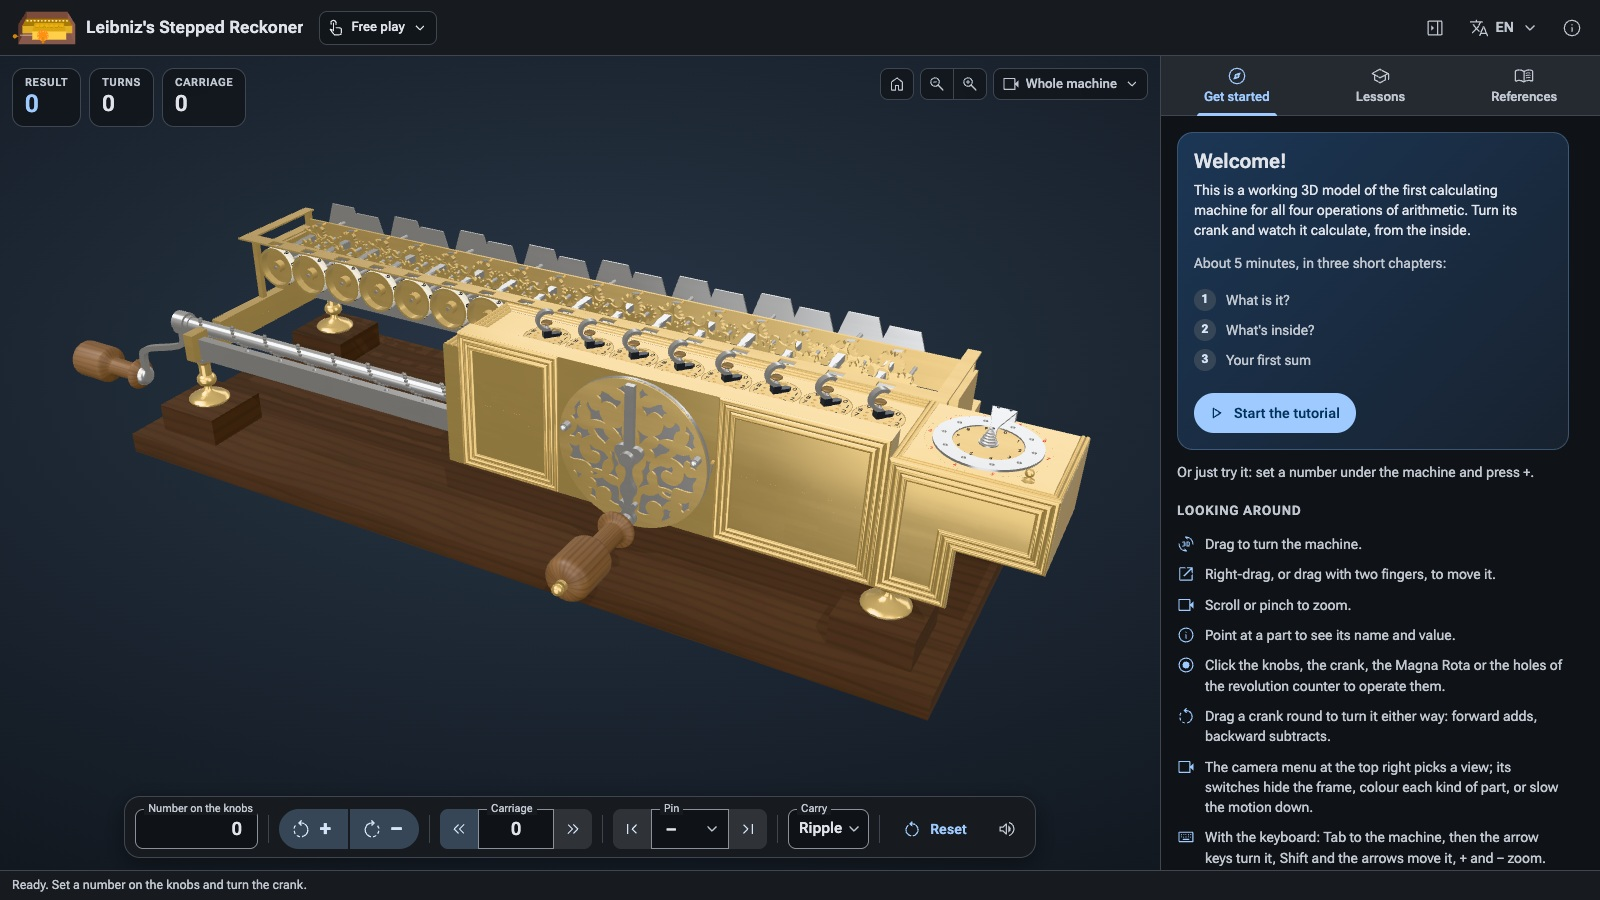
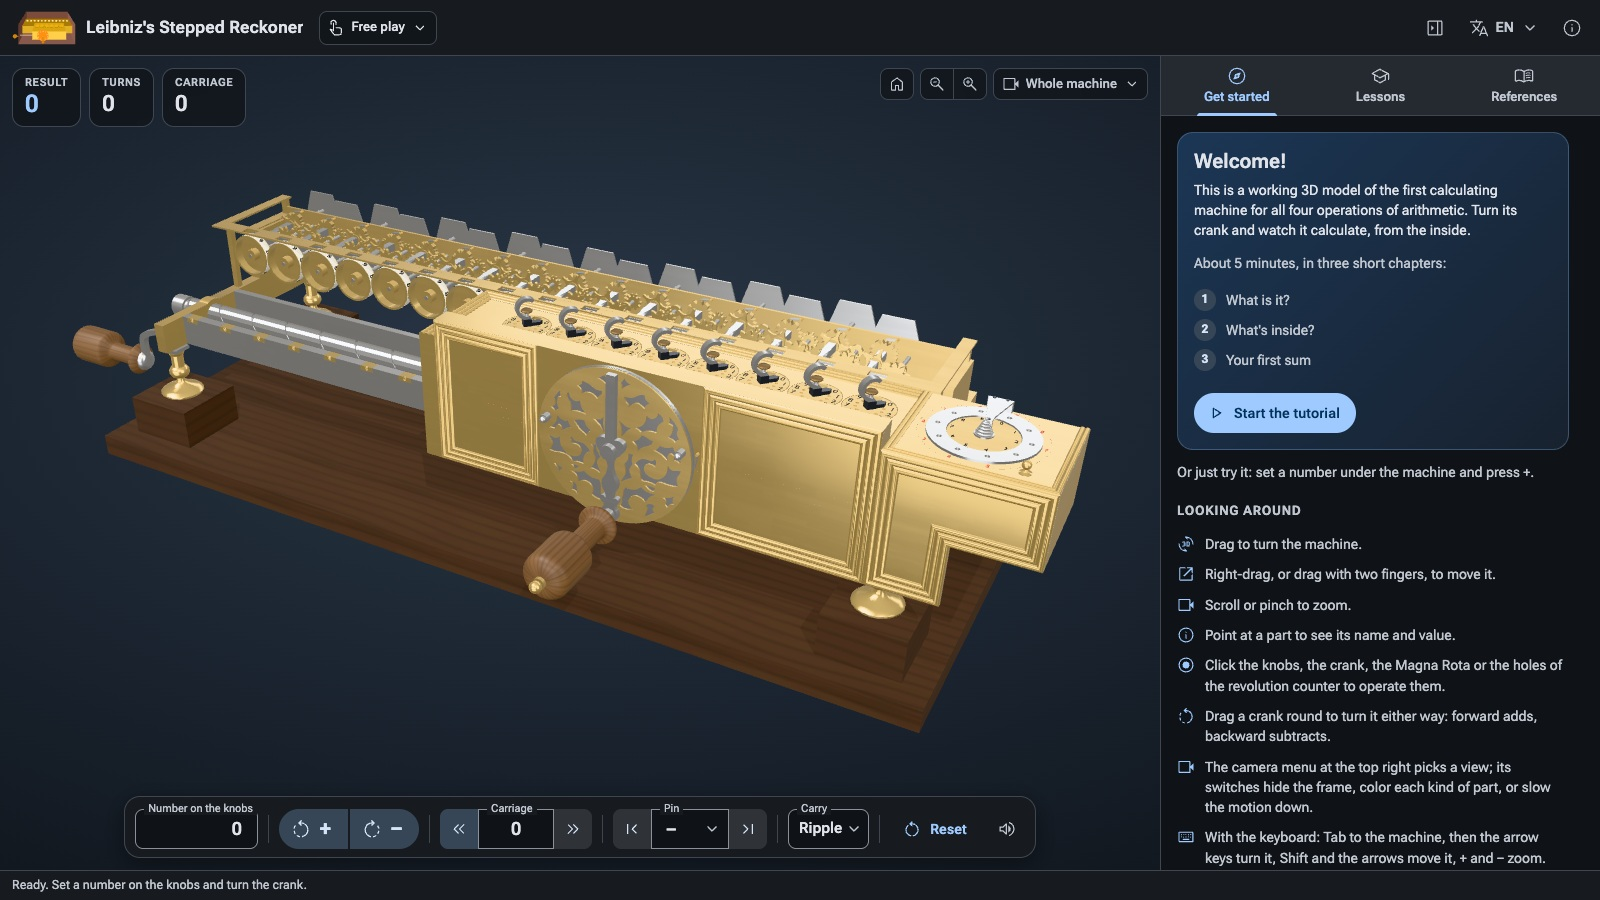
Pre-release check of 1.4.0: CHANGELOG, README and its pictures, the rails' labels, decision 0002
- CHANGELOG 1.4.0 (unreleased): the lead screw between the rails, Badur's base frame, the
  carriage's detent, Color by part, the References, US spelling, the new tests
- README: what follows Badur's replica (base frame, lead screw, detent), Lehmann's carry about
  30 degrees into the next turn; the six pictures retaken
- Hover labels of the front and middle rails follow the new frame (ten languages)
- Decision 0002: addendum on the 1.4.0 frame; the case postponed (v1.4 notes)
- Checked: 369 tests, ?selftest 15/15, ten languages through every view and all 72 lesson
  and tutorial steps without errors or raw keys; generated data in sync

diff --git a/js/l10n/de.js b/js/l10n/de.js
@@ -277,8 +277,8 @@ export default {
   "part.detentCatch": "Rastklinke (hält den Schlitten an seiner Stelle; beim Original vor dem Verschieben von Hand gelöst)",
   "part.slideShoe": "Gleitschuh des Schlittens",
   "part.rearBearings": "Hintere Lager der Walzenwellen",
-  "part.beamFront": "Vordere Rahmenleiste (Rastlöcher des Schlittens)",
-  "part.beamMiddle": "Mittlere Rahmenleiste (der Schlitten gleitet darauf)",
+  "part.beamFront": "Vordere Führungsschiene (der Schlitten gleitet darauf; Rasten für seine Klinke)",
+  "part.beamMiddle": "Mittlere Führungsschiene (der Schlitten gleitet darauf)",
   "part.beamBack": "Hintere Rahmenleiste",
   "part.registerBar": "Vordere Leiste des Resultatwerks",
   "part.rearBeam": "Hintere Leiste (Lager der Wellen des Resultatwerks)",

diff --git a/js/l10n/en.js b/js/l10n/en.js
@@ -279,8 +279,8 @@ export default {
   "part.detentCatch": "Detent catch (holds the carriage in its place; on the original, lifted by hand before a shift)",
   "part.slideShoe": "Slide shoe of the carriage",
   "part.rearBearings": "Rear bearings of the drum shafts",
-  "part.beamFront": "Front beam (detent holes for the carriage)",
-  "part.beamMiddle": "Middle beam (the carriage slides on it)",
+  "part.beamFront": "Front rail (the carriage slides on it; pits for its detent catch)",
+  "part.beamMiddle": "Middle rail (the carriage slides on it)",
   "part.beamBack": "Back beam",
   "part.registerBar": "Front bar of the register",
   "part.rearBeam": "Rear beam (bearings of the register's shafts)",

diff --git a/js/l10n/it.js b/js/l10n/it.js
@@ -277,7 +277,7 @@ export default {
   "part.detentCatch": "Nottolino di arresto (tiene il carrello al suo posto; nell’originale si solleva a mano prima di spostarlo)",
   "part.slideShoe": "Pattino del carrello",
   "part.rearBearings": "Supporti posteriori degli alberi dei tamburi",
-  "part.beamFront": "Traversa anteriore (fori di arresto del carrello)",
+  "part.beamFront": "Traversa anteriore (il carrello vi scorre sopra; tacche per il suo nottolino di arresto)",
   "part.beamMiddle": "Traversa centrale (il carrello vi scorre sopra)",
   "part.beamBack": "Traversa posteriore",
   "part.registerBar": "Barra anteriore del totalizzatore",

diff --git a/js/l10n/ko.js b/js/l10n/ko.js
@@ -277,7 +277,7 @@ export default {
   "part.detentCatch": "멈춤 걸쇠(캐리지를 제자리에 고정. 원본에서는 옮기기 전에 손으로 들어 올림)",
   "part.slideShoe": "캐리지의 미끄럼 슈",
   "part.rearBearings": "계단 바퀴 축의 뒤 베어링",
-  "part.beamFront": "앞 들보(캐리지의 멈춤 구멍)",
+  "part.beamFront": "앞 들보(캐리지가 그 위를 미끄러짐. 멈춤 걸쇠가 들어가는 홈)",
   "part.beamMiddle": "가운데 들보(캐리지가 그 위를 미끄러짐)",
   "part.beamBack": "뒤 들보",
   "part.registerBar": "결과부의 앞 막대",

diff --git a/js/l10n/ja.js b/js/l10n/ja.js
@@ -277,7 +277,7 @@ export default {
   "part.detentCatch": "止め爪（キャリッジを位置に保つ。実物では、動かす前に手で外す）",
   "part.slideShoe": "キャリッジの滑り金",
   "part.rearBearings": "段付き歯車の軸の後ろ軸受け",
-  "part.beamFront": "前の梁（キャリッジの止め穴）",
+  "part.beamFront": "前の梁（キャリッジがその上を滑る。止め爪が入るくぼみ）",
   "part.beamMiddle": "中央の梁（キャリッジがその上を滑る）",
   "part.beamBack": "後ろの梁",
   "part.registerBar": "結果部の前のバー",

diff --git a/js/l10n/fr.js b/js/l10n/fr.js
@@ -277,7 +277,7 @@ export default {
   "part.detentCatch": "Cliquet d'arrêt (tient le chariot à sa place ; sur l’original, levé à la main avant de déplacer le chariot)",
   "part.slideShoe": "Patin du chariot",
   "part.rearBearings": "Paliers arrière des arbres des cylindres",
-  "part.beamFront": "Traverse avant (trous d'arrêt du chariot)",
+  "part.beamFront": "Traverse avant (le chariot y glisse ; crans pour son cliquet d'arrêt)",
   "part.beamMiddle": "Traverse du milieu (le chariot y glisse)",
   "part.beamBack": "Traverse arrière",
   "part.registerBar": "Barre avant du totalisateur",

diff --git a/js/l10n/es.js b/js/l10n/es.js
@@ -277,7 +277,7 @@ export default {
   "part.detentCatch": "Trinquete (mantiene el carro en su posición; en el original se levanta a mano antes de desplazarlo)",
   "part.slideShoe": "Patín del carro",
   "part.rearBearings": "Cojinetes traseros de los ejes de los tambores",
-  "part.beamFront": "Viga delantera (agujeros de retén del carro)",
+  "part.beamFront": "Viga delantera (el carro se desliza sobre ella; muescas para su trinquete)",
   "part.beamMiddle": "Viga central (el carro se desliza sobre ella)",
   "part.beamBack": "Viga trasera",
   "part.registerBar": "Barra delantera del registro",

diff --git a/js/l10n/pt-BR.js b/js/l10n/pt-BR.js
@@ -277,7 +277,7 @@ export default {
   "part.detentCatch": "Trava (segura o carro na sua posição; no original, levantada à mão antes de deslocá-lo)",
   "part.slideShoe": "Patim do carro",
   "part.rearBearings": "Mancais traseiros dos eixos dos tambores",
-  "part.beamFront": "Viga dianteira (furos de trava do carro)",
+  "part.beamFront": "Viga dianteira (o carro desliza sobre ela; entalhes para a sua trava)",
   "part.beamMiddle": "Viga do meio (o carro desliza sobre ela)",
   "part.beamBack": "Viga traseira",
   "part.registerBar": "Barra dianteira do registrador",

diff --git a/js/l10n/zh-TW.js b/js/l10n/zh-TW.js
@@ -277,7 +277,7 @@ export default {
   "part.detentCatch": "定位卡銷（把滑架固定在位；原機上移動滑架前要用手抬起）",
   "part.slideShoe": "滑架滑靴",
   "part.rearBearings": "步進輪軸的後軸承",
-  "part.beamFront": "前橫梁（滑架的定位孔）",
+  "part.beamFront": "前橫梁（滑架在其上滑動；定位卡銷落入的凹槽）",
   "part.beamMiddle": "中橫梁（滑架在其上滑動）",
   "part.beamBack": "後橫梁",
   "part.registerBar": "結果部的前橫條",

diff --git a/js/l10n/zh.js b/js/l10n/zh.js
@@ -277,7 +277,7 @@ export default {
   "part.detentCatch": "定位卡销（把滑架固定在位；原机上移动滑架前要用手抬起）",
   "part.slideShoe": "滑架滑靴",
   "part.rearBearings": "步进轮轴的后轴承",
-  "part.beamFront": "前横梁（滑架的定位孔）",
+  "part.beamFront": "前横梁（滑架在其上滑动；定位卡销落入的凹槽）",
   "part.beamMiddle": "中横梁（滑架在其上滑动）",
   "part.beamBack": "后横梁",
   "part.registerBar": "结果部的前横条",

diff --git a/design/v1.4-notes.md b/design/v1.4-notes.md
@@ -13,7 +13,7 @@ To ask Klaus Badur after the release of 1.4.0, or for the owner to decide:
 | The detent pits and the catch: their sizes (ours are estimates from the photos), and whether the original's catch can be pushed out by the lead screw or only lifted by hand (ours rides out by itself, the owner's decision) | Badur |
 | How the nut engages the cut groove (ours: a follower pin; no drawing shows it) | Badur |
 | His sheet 4, missing from the set he sent (it may draw the catch, the rails or the nut) | Badur |
-| The case: rebuilt or not (removed in 1.3.0; his photo shows his replica's oak case with a hinged lid) | the owner |
+| The case: **postponed** (the owner, 2026-11-28: not a core part; users want to see the mechanism first). If it is rebuilt: low walls, no lid, a separate switch off by default, its proportions from the photos and Badur's 755, or asked of him | later |
 | The ball nuts at the rails' ends on the side walls' outsides (the replica's photos): not modelled for now, large and not part of the calculator (the owner, 2026-11-28) | the owner |
 
 Done on this branch, after his reply of 28 November (see the log): the lead screw between the front and middle rails of his base frame, its cut groove and the nut's follower pin, through round holes in the side walls; the carriage's detent (brass inserts with their pits, the sprung catch riding out by itself, its hand release on the original named in its hover label); the rear bar between the pentagon rows (his "Grundrahmen-Leiste", already so); the register without a cover (already so); the detent springs' few degrees (consistent); Lehmann's carry, about 30° more than a turn, in the References; the Wagner protocol and "only the last turn of a series needs idle turns" in the References and a test. Answered before: the register's cover (none), the detent springs' angle (a few degrees, no exact figure).
@@ -67,3 +67,4 @@ The owner thanked him for his replies of 25 November (the crank's direction, the
 - **2026-11-28** **Colour by part: the frame was never coloured** (owner: the carriage and the lead screw are coloured, the frame is not). PART_COLOURS named it `frame.*`, a pattern for numbered parts (`pm.drum.0` …), which matched nothing: the frame, the feet with the board, and the carry stores' detent springs kept their own look since the mode came in (1.3.0). Now the frame and the feet are grey, the detent springs take the carry stores' green, and the board and blocks keep their dark wood (the stand, not a part of the machine: a grey board would only dull the picture). A new acceptance check, A3-17, fails if any mesh keeps its own look in this mode other than the digits, their white bands and the stand's wood.
 - **2026-11-28** **Decided (owner): US spelling for the English a reader sees.** The texts grew up in British spelling with no rule behind it, and the interface already mixed "licence" and "license". From 1.4.0 the English interface, the README, the CHANGELOG (from 1.4.0 on) and `docs/` use US spelling (color, center, gray, license, meter, modeling, labeled, counterclockwise, toward, a check mark rather than a tick): the default of the web and of most educational software, and of the larger school audiences. Not changed: code identifiers and parameter keys, proper names, these notes and the decision records (a dated log), older CHANGELOG entries; code comments follow when a file is touched. The rule is in docs/conventions.md, *Spelling*.
 - **2026-11-28** **The References and the catch's label after Badur's reply** (owner). The References' paragraph on the original's carry adds that in a series of turns, as in a multiplication, the next turn finishes waiting carries by itself, so only the last needs idle turns (WALSDORF2014), and that after a protocol of 1706 by Leibniz's assistant R. C. Wagner, Badur and Rottstedt multiplied two 8-digit numbers on their replica without finishing carries in between (BADUR2026, 28 November). The catch's hover label adds that on the original it is lifted by hand before a shift. Both in ten languages (the Japanese Lehmann sentence of 2026-11-28 now writes Badur as the other texts do, バドゥア). The Open table rewritten: what to ask Badur after the release, and what his reply led to.
+- **2026-11-28** **The case postponed** (owner: not the core of the simulator; users want to see the mechanism first). The plan, should it come back: its proportions from the photos scaled by Badur's 755 (or asked of him); low walls, the front one below the main crank's swing, an opening for the lead screw in the left wall; no lid; a separate *Show the case* switch, off by default; within the triangle budget. **Pre-release check of 1.4.0:** the hover labels of the front and middle rails follow the new frame (the carriage slides on both; the pits for the catch), ten languages; README, docs and decision 0002 (addendum) follow it too.

diff --git a/README.md b/README.md
@@ -135,9 +135,9 @@ Use **Reset** before each one.
 
 ## How faithful is the model?
 
-The model is **kinematically faithful**: the mechanism and its angles follow the published sources (the timing of the drum's teeth, the stored carry and its pentagon, the carry levers, the 36.5 mm step of the carriage). The parts Klaus Badur measured on the original in Hannover have its sizes: the stepped drums, the result and setting discs, the pentagons, the revolution counter, the carriage and the Magna Rota. The other main parts, the frame and its feet among them, follow N. J. Lehmann's workshop drawings of the replica at TU Dresden, kept in the Deutsches Museum's archive, and the rest come from published measurements and from photographs of the original and of that replica ([decision 0002](design/decisions/0002-original-replica-and-releases.md)). Many small part sizes had to be estimated, and the digits are deliberately larger than on the original so that they can be read on a screen.
+The model is **kinematically faithful**: the mechanism and its angles follow the published sources (the timing of the drum's teeth, the stored carry and its pentagon, the carry levers, the 36.5 mm step of the carriage). The parts Klaus Badur measured on the original in Hannover have its sizes: the stepped drums, the result and setting discs, the pentagons, the revolution counter, the carriage and the Magna Rota; the carry parts, the base frame with the lead screw between its rails, and the carriage's detent follow the drawings of his replica, built as the original. Other main parts, the feet among them, follow N. J. Lehmann's workshop drawings of the replica at TU Dresden, kept in the Deutsches Museum's archive, and the rest come from published measurements and from photographs of the original and of the replicas ([decision 0002](design/decisions/0002-original-replica-and-releases.md)). Many small part sizes had to be estimated, and the digits are deliberately larger than on the original so that they can be read on a screen.
 
-Where the sources disagree or say nothing, the choice is written down with its reason. The best-known example is the carry. On the original in Hannover all the carry levers act at once, and a carry can wait for the next turn; the model builds that carry from Klaus Badur's drawings of its parts. A chain of carries that runs through within one turn is friendlier for a newcomer, so the page's default is a *ripple carry*: in each digit two of the original's carry parts are exchanged for a faster pair of our own design (a longer lever and a small star, behind the drums), and every other part stays the original's. It is a modern addition, neither the original's nor that of N. J. Lehmann's Dresden replica (whose own parts and timing finish a long chain early in the next turn). Lessons 2 and 3 show both, and the toolbar's *Carry* box switches between them ([decision 0001](design/decisions/0001-carry-interpretation.md), [v1.3 notes](design/v1.3-notes.md)). Every dimension and angle, with its source and how sure we are of it, is in [params/machine.json](params/machine.json), and the research behind it is in [research/REPORT.md](research/REPORT.md).
+Where the sources disagree or say nothing, the choice is written down with its reason. The best-known example is the carry. On the original in Hannover all the carry levers act at once, and a carry can wait for the next turn; the model builds that carry from Klaus Badur's drawings of its parts. A chain of carries that runs through within one turn is friendlier for a newcomer, so the page's default is a *ripple carry*: in each digit two of the original's carry parts are exchanged for a faster pair of our own design (a longer lever and a small star, behind the drums), and every other part stays the original's. It is a modern addition, neither the original's nor that of N. J. Lehmann's Dresden replica (whose own parts and timing finish a long chain only about 30° into the next turn, as Klaus Badur found). Lessons 2 and 3 show both, and the toolbar's *Carry* box switches between them ([decision 0001](design/decisions/0001-carry-interpretation.md), [v1.3 notes](design/v1.3-notes.md), [v1.4 notes](design/v1.4-notes.md)). Every dimension and angle, with its source and how sure we are of it, is in [params/machine.json](params/machine.json), and the research behind it is in [research/REPORT.md](research/REPORT.md).
 
 ## Running it on your own computer
 
